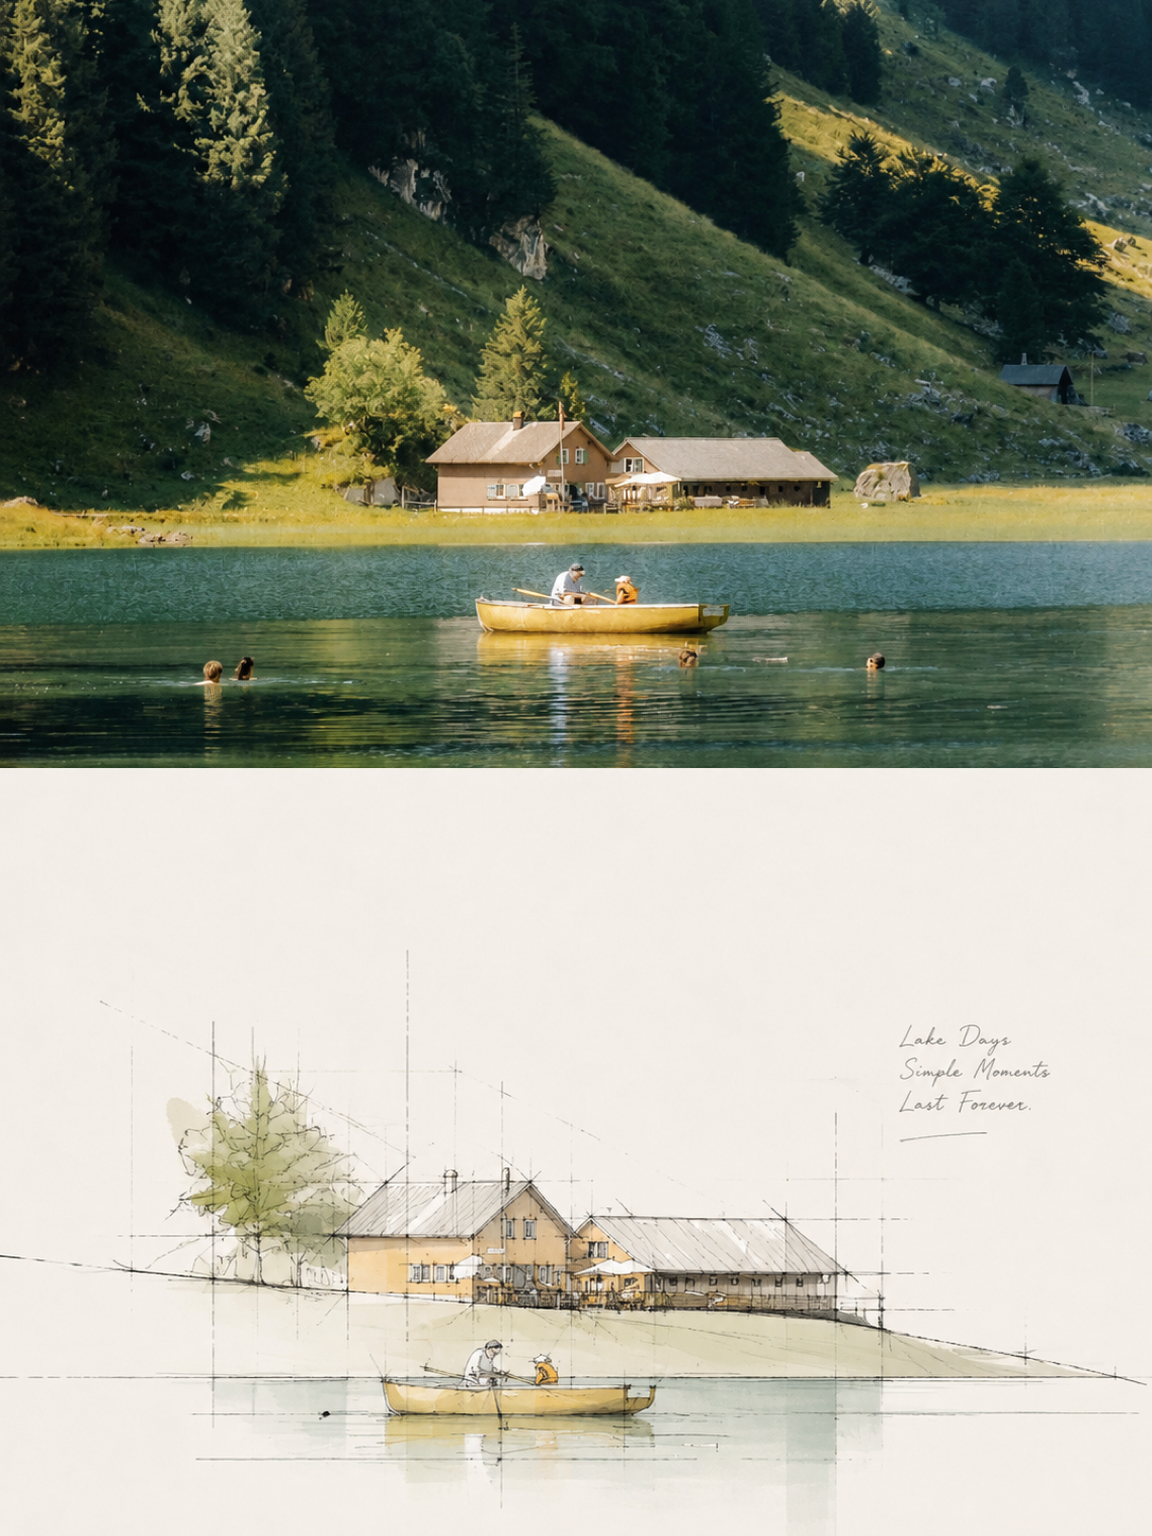
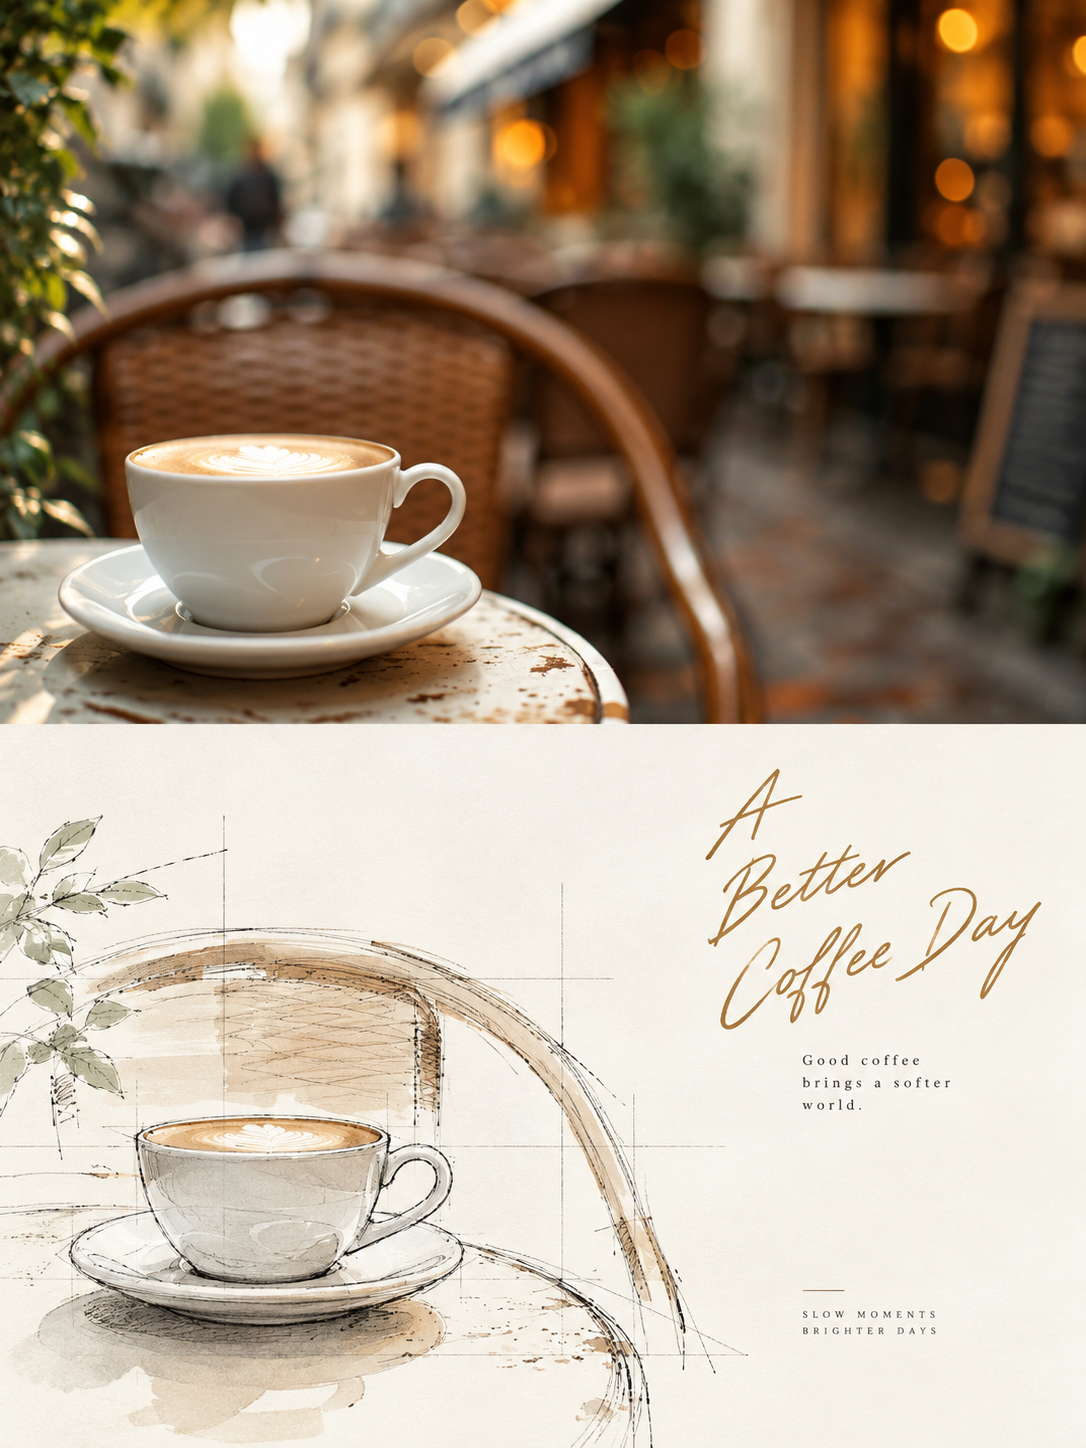
docs: add 16:9 left-right and 3:4 top-bottom samples
Eight unique source photographs, four per comparison layout, generated with this Panel original brief and prompt-generated English copy.

diff --git a/README.en.md b/README.en.md
@@ -4,19 +4,36 @@ Turn spatial memories in a photograph into an architectural sketch with room to 
 
 [简体中文](README.md) · [English](README.en.md) · [日本語](README.ja.md) · [한국어](README.ko.md) · [العربية](README.ar.md)
 
-## Sample works
+## 16:9 Left–Right Samples
 
-本项目已发布 8 张实际样片，图片文件位于 `assets/examples/`。
+Four independent sources on complete 16:9 canvases: reality left, this Panel's design right, exact 50:50. English copy is generated from each photograph.
 
-| sample-05 | sample-06 |
-| --- | --- |
-| ![sample-05](assets/examples/sample-05.png) | ![sample-06](assets/examples/sample-06.png) |
-| sample-07 | sample-08 |
-| ![sample-07](assets/examples/sample-07.png) | ![sample-08](assets/examples/sample-08.png) |
-| sample-09 | sample-10 |
-| ![sample-09](assets/examples/sample-09.png) | ![sample-10](assets/examples/sample-10.png) |
-| sample-11 | sample-12 |
-| ![sample-11](assets/examples/sample-11.png) | ![sample-12](assets/examples/sample-12.png) |
+<table>
+  <tr>
+    <td width="50%"><img src="./assets/examples/sample-05.png" alt="XXD Panel 120 Sample 5"></td>
+    <td width="50%"><img src="./assets/examples/sample-06.png" alt="XXD Panel 120 Sample 6"></td>
+  </tr>
+  <tr>
+    <td width="50%"><img src="./assets/examples/sample-07.png" alt="XXD Panel 120 Sample 7"></td>
+    <td width="50%"><img src="./assets/examples/sample-08.png" alt="XXD Panel 120 Sample 8"></td>
+  </tr>
+</table>
+
+## 3:4 Top–Bottom Samples
+
+Four further independent sources, different from the 16:9 set, regenerated as complete 3:4 top–bottom canvases. The original photograph remains above; the lower design follows this Panel's original brief.
+
+<table>
+  <tr>
+    <td width="50%"><img src="./assets/examples/sample-09.png" alt="XXD Panel 120 additional top-bottom sample 1"></td>
+    <td width="50%"><img src="./assets/examples/sample-10.png" alt="XXD Panel 120 additional top-bottom sample 2"></td>
+  </tr>
+  <tr>
+    <td width="50%"><img src="./assets/examples/sample-11.png" alt="XXD Panel 120 additional top-bottom sample 3"></td>
+    <td width="50%"><img src="./assets/examples/sample-12.png" alt="XXD Panel 120 additional top-bottom sample 4"></td>
+  </tr>
+</table>
+
 
 ## Best-fit situations and problems solved
 

diff --git a/README.md b/README.md
@@ -4,19 +4,36 @@
 
 [简体中文](README.md) · [English](README.en.md) · [日本語](README.ja.md) · [한국어](README.ko.md) · [العربية](README.ar.md)
 
-## 样张展示
+## 16:9 左右双联样张
 
-本项目已发布 8 张实际样片，图片文件位于 `assets/examples/`。
+以下四张为独立素材，完整 16:9 画布：左为现实摄影，右为本 Panel 设计转译，严格 50:50。文案由模型按原始提示词从当前照片智能生成。
 
-| sample-05 | sample-06 |
-| --- | --- |
-| ![sample-05](assets/examples/sample-05.png) | ![sample-06](assets/examples/sample-06.png) |
-| sample-07 | sample-08 |
-| ![sample-07](assets/examples/sample-07.png) | ![sample-08](assets/examples/sample-08.png) |
-| sample-09 | sample-10 |
-| ![sample-09](assets/examples/sample-09.png) | ![sample-10](assets/examples/sample-10.png) |
-| sample-11 | sample-12 |
-| ![sample-11](assets/examples/sample-11.png) | ![sample-12](assets/examples/sample-12.png) |
+<table>
+  <tr>
+    <td width="50%"><img src="./assets/examples/sample-05.png" alt="XXD Panel 120 样张 5"></td>
+    <td width="50%"><img src="./assets/examples/sample-06.png" alt="XXD Panel 120 样张 6"></td>
+  </tr>
+  <tr>
+    <td width="50%"><img src="./assets/examples/sample-07.png" alt="XXD Panel 120 样张 7"></td>
+    <td width="50%"><img src="./assets/examples/sample-08.png" alt="XXD Panel 120 样张 8"></td>
+  </tr>
+</table>
+
+## 3:4 上下双联样张
+
+以下四张使用与 16:9 组完全不同的四张独立素材，重新生成完整 3:4 上下双联画布；上部保留现实摄影，下部遵循本 Panel 原始提示词重构。英文配字只从当前照片的内容、情绪或隐喻中生成。
+
+<table>
+  <tr>
+    <td width="50%"><img src="./assets/examples/sample-09.png" alt="XXD Panel 120 新增上下样张 1"></td>
+    <td width="50%"><img src="./assets/examples/sample-10.png" alt="XXD Panel 120 新增上下样张 2"></td>
+  </tr>
+  <tr>
+    <td width="50%"><img src="./assets/examples/sample-11.png" alt="XXD Panel 120 新增上下样张 3"></td>
+    <td width="50%"><img src="./assets/examples/sample-12.png" alt="XXD Panel 120 新增上下样张 4"></td>
+  </tr>
+</table>
+
 
 ## 适用场景与解决的问题
 

diff --git a/README.ko.md b/README.ko.md
@@ -4,19 +4,36 @@
 
 [简体中文](README.md) · [English](README.en.md) · [日本語](README.ja.md) · [한국어](README.ko.md) · [العربية](README.ar.md)
 
-## 샘플 작품
+## 16:9 좌우 구성 예시
 
-本项目已发布 8 张实际样片，图片文件位于 `assets/examples/`。
+서로 다른 원본 네 장으로 만든 16:9 완성 캔버스. 왼쪽은 실사, 오른쪽은 이 Panel 디자인, 정확히 50:50.
 
-| sample-05 | sample-06 |
-| --- | --- |
-| ![sample-05](assets/examples/sample-05.png) | ![sample-06](assets/examples/sample-06.png) |
-| sample-07 | sample-08 |
-| ![sample-07](assets/examples/sample-07.png) | ![sample-08](assets/examples/sample-08.png) |
-| sample-09 | sample-10 |
-| ![sample-09](assets/examples/sample-09.png) | ![sample-10](assets/examples/sample-10.png) |
-| sample-11 | sample-12 |
-| ![sample-11](assets/examples/sample-11.png) | ![sample-12](assets/examples/sample-12.png) |
+<table>
+  <tr>
+    <td width="50%"><img src="./assets/examples/sample-05.png" alt="XXD Panel 120 Sample 5"></td>
+    <td width="50%"><img src="./assets/examples/sample-06.png" alt="XXD Panel 120 Sample 6"></td>
+  </tr>
+  <tr>
+    <td width="50%"><img src="./assets/examples/sample-07.png" alt="XXD Panel 120 Sample 7"></td>
+    <td width="50%"><img src="./assets/examples/sample-08.png" alt="XXD Panel 120 Sample 8"></td>
+  </tr>
+</table>
+
+## 3:4 상하 구성 예시
+
+16:9 세트와 다른 원본 네 장으로 만든 3:4 상하 완성 캔버스. 위는 실사, 아래는 디자인, 정확히 50:50.
+
+<table>
+  <tr>
+    <td width="50%"><img src="./assets/examples/sample-09.png" alt="XXD Panel 120 additional top-bottom sample 1"></td>
+    <td width="50%"><img src="./assets/examples/sample-10.png" alt="XXD Panel 120 additional top-bottom sample 2"></td>
+  </tr>
+  <tr>
+    <td width="50%"><img src="./assets/examples/sample-11.png" alt="XXD Panel 120 additional top-bottom sample 3"></td>
+    <td width="50%"><img src="./assets/examples/sample-12.png" alt="XXD Panel 120 additional top-bottom sample 4"></td>
+  </tr>
+</table>
+
 
 ## 적합한 상황과 해결하는 문제
 

diff --git a/README.ar.md b/README.ar.md
@@ -4,6 +4,36 @@
 
 [简体中文](README.md) · [English](README.en.md) · [日本語](README.ja.md) · [한국어](README.ko.md) · [العربية](README.ar.md)
 
+## نماذج 16:9 يسار–يمين
+
+أربع مصادر مستقلة على لوحة 16:9 مكتملة: الواقع يساراً وتصميم هذا اللوح يميناً، مناصفة دقيقة 50:50.
+
+<table>
+  <tr>
+    <td width="50%"><img src="./assets/examples/sample-05.png" alt="XXD Panel 120 Sample 5"></td>
+    <td width="50%"><img src="./assets/examples/sample-06.png" alt="XXD Panel 120 Sample 6"></td>
+  </tr>
+  <tr>
+    <td width="50%"><img src="./assets/examples/sample-07.png" alt="XXD Panel 120 Sample 7"></td>
+    <td width="50%"><img src="./assets/examples/sample-08.png" alt="XXD Panel 120 Sample 8"></td>
+  </tr>
+</table>
+
+## نماذج 3:4 أعلى–أسفل
+
+أربع مصادر أخرى مستقلة، مختلفة عن مجموعة 16:9، بلوحة 3:4 مكتملة: الواقع أعلى والتصميم أسفل، مناصفة دقيقة 50:50.
+
+<table>
+  <tr>
+    <td width="50%"><img src="./assets/examples/sample-09.png" alt="XXD Panel 120 additional top-bottom sample 1"></td>
+    <td width="50%"><img src="./assets/examples/sample-10.png" alt="XXD Panel 120 additional top-bottom sample 2"></td>
+  </tr>
+  <tr>
+    <td width="50%"><img src="./assets/examples/sample-11.png" alt="XXD Panel 120 additional top-bottom sample 3"></td>
+    <td width="50%"><img src="./assets/examples/sample-12.png" alt="XXD Panel 120 additional top-bottom sample 4"></td>
+  </tr>
+</table>
+
 ## نماذج الأعمال
 
 تستخدم النماذج الثمانية صورًا أصلية من مجلدات مختلفة، وينشئ Panel 120 كلًا منها باستقلال في مرور واحد، مع نص إنجليزي مستند إلى الصورة وإزالة بيانات AI قبل النشر. الأفقي: الصورة يسارًا والتصميم يمينًا؛ الرأسي: الصورة أعلى والتصميم أسفل، بنسبة 50% لكل منطقة.

diff --git a/README.ja.md b/README.ja.md
@@ -4,6 +4,36 @@
 
 [简体中文](README.md) · [English](README.en.md) · [日本語](README.ja.md) · [한국어](README.ko.md) · [العربية](README.ar.md)
 
+## 16:9 左右の作例
+
+独立した4点の素材による 16:9 完成キャンバス。左が現実写真、右が本 Panel のデザイン、厳密に 50:50。
+
+<table>
+  <tr>
+    <td width="50%"><img src="./assets/examples/sample-05.png" alt="XXD Panel 120 Sample 5"></td>
+    <td width="50%"><img src="./assets/examples/sample-06.png" alt="XXD Panel 120 Sample 6"></td>
+  </tr>
+  <tr>
+    <td width="50%"><img src="./assets/examples/sample-07.png" alt="XXD Panel 120 Sample 7"></td>
+    <td width="50%"><img src="./assets/examples/sample-08.png" alt="XXD Panel 120 Sample 8"></td>
+  </tr>
+</table>
+
+## 3:4 上下の作例
+
+16:9 組とは別の独立した4点で、3:4 上下の完成キャンバスを生成。上が現実写真、下がデザイン、厳密に 50:50。
+
+<table>
+  <tr>
+    <td width="50%"><img src="./assets/examples/sample-09.png" alt="XXD Panel 120 additional top-bottom sample 1"></td>
+    <td width="50%"><img src="./assets/examples/sample-10.png" alt="XXD Panel 120 additional top-bottom sample 2"></td>
+  </tr>
+  <tr>
+    <td width="50%"><img src="./assets/examples/sample-11.png" alt="XXD Panel 120 additional top-bottom sample 3"></td>
+    <td width="50%"><img src="./assets/examples/sample-12.png" alt="XXD Panel 120 additional top-bottom sample 4"></td>
+  </tr>
+</table>
+
 ## 作例
 
 8 枚の作例は異なるフォルダの原写真を参照し、Panel 120 が各画像を独立した一回の生成で制作します。写真に基づく英語の文章を使い、公開前に AI メタデータを除去します。横長は左に写真・右にデザイン、縦長は上に写真・下にデザインを各 50% 配置します。
